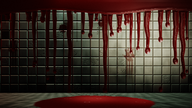
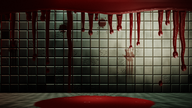
Halloween fase 14: escenas de imagen 20-25 con piano, Detail sin saltos y climax
20 galeria: cantidad de cuadros continua; piano hace gritar cada cuadro.
21 espejo: grietas del piano; vapor, mano que limpia y espejo roto.
22 se quema: ciclo fijo (D1 ya no salta la fase); llamaradas del piano;
   incendio que no des-quema la foto al terminar.
23 pelicula: rayones del piano; iris, cinta quemada y cartel.
24 sangra: grilla fija, D1 = cortes; chorros del piano; lampara apagada.
25 posesion: tiras continuas; tirones del piano; posesion total.
Miniaturas sin climax (HK_STILL) y regeneradas.

Claude-Session: https://claude.ai/code/session_01NVP2u1MWPb16oy8b6RCqty

diff --git a/td/tools/render_scenes.py b/td/tools/render_scenes.py
@@ -99,12 +99,12 @@ def media_image():
     return img[::-1].copy()
 
 
-def render(ctx, index, values, media):
+def render(ctx, index, values, media, defines=''):
     body, path = shader.read_body(index)
     n_inputs = config.scene_input_count(index)
     src = ('#version 330\nuniform sampler2D sTD2DInputs[{}];\n'
            'in vec3 vUV;\nvec4 TDOutputSwizzle(vec4 c) {{ return c; }}\n'
-           .format(n_inputs)
+           .format(n_inputs) + defines
            + shader.make_header(index, config.CTRL_CHANNELS)
            + body + shader._FOOTER)
     prog = ctx.program(vertex_shader=_VERT, fragment_shader=src)

diff --git a/td/tools/render_thumbs.py b/td/tools/render_thumbs.py
@@ -57,7 +57,8 @@ def main():
         if not shader.find_visual(i):
             continue
         try:
-            img, _ = rs.render(ctx, i, vals(i), media)
+            # HK_STILL: sin climax (la miniatura muestra la escena en reposo)
+            img, _ = rs.render(ctx, i, vals(i), media, '#define HK_STILL 1\n')
         except Exception as e:
             print('[!!] escena {:02d}: {}'.format(i, str(e)[:200]))
             fails += 1

diff --git a/docs/53_SETS_Y_HALLOWEEN.md b/docs/53_SETS_Y_HALLOWEEN.md
@@ -362,3 +362,16 @@ Mismo tratamiento que la fase 11: piano propio, Detail sin saltos y clímax en t
 
 - **Optimización del piano:** `keyEnv` y las demás funciones leen cada dato de la voz por separado y cortan apenas la voz no suena. Sin teclas, un bucle de 6 voces cuesta 6 lecturas, no 24. En el render por software, la 18 bajó de 0.30 s a 0.18 s y la 19 de 0.24 s a 0.17 s.
 
+## Fase 14: escenas de imagen 20–25
+
+| Escena | Piano | Detail sin saltos | Clímax |
+|---|---|---|---|
+| 20 Galería | El cuadro de esa posición grita (negativo un instante) y su lámpara se aviva | D1 continuo: los cuadros se reacomodan y el nuevo crece | Apagón y se tuercen de a uno → todos en negativo → vuelven parpadeando |
+| 21 Espejo | Estrella de grietas que crece mientras la tecla sigue apretada | — | Vapor total → una mano limpia → se raja entero |
+| 22 Se quema | Llamarada y chispas a la altura de la nota | D1 ya no cambia la duración de la vuelta (antes saltaba el frente o la foto): ciclo fijo de 22 s y D1 = velocidad del frente | Calor → incendio con llamaradas enormes → ráfaga que se lleva las cenizas. Para que no se "des-queme" al terminar, el clímax no adelanta la quemadura |
+| 23 Película | Rayón blanco en la posición de la nota y salto de cuadro | — | Saltos e iris que se cierra → la cinta se quema hasta el blanco → cartel y alguien del público se da vuelta |
+| 24 Sangra | Chorro de sangre que brota de la imagen | D1 = cortes en una grilla fija; los pedazos sin cortar quedan pegados como una hoja | La lámpara titila → la imagen llora a chorros → se apaga y la sangre brilla sola |
+| 25 Posesión | Tirón de la tira a la altura de la nota y ojos rojos | D1 continuo | Velas y ojos → venas hasta el centro y posesión total → todo queda rojo |
+
+- **Miniaturas:** `render_thumbs.py` define `HK_STILL` y `hkClimax` devuelve 0, así cada miniatura muestra la escena en reposo y no un clímax a medias.
+

diff --git a/CLAUDE.md b/CLAUDE.md
@@ -26,3 +26,4 @@ Trabajar en una rama; hacer **commit y push**. Desde el 21 de octubre de 2026: *
 - **Fase 11** (rama `claude/halloween-f11-detalle-piano`): piano polifónico (6 voces, `keyEnv`), Detail con Lag y `revealAt`, clímax en tres tiempos (`hkClimax`, `hkGrandClimax`) y setlist reordenado; escenas 00–06 rehechas (docs/53). Siguen las fases 12 (07–13), 13 (14–19), 14 (20–25) y 15 (pad momento y transiciones).
 - **Fase 12** (rama `claude/halloween-f12-escenas-07-13`, sobre f11): escenas 07–13 con el mismo tratamiento.
 - **Fase 13** (rama `claude/halloween-f13-escenas-14-19`, sobre f12): escenas 14–19, y piano optimizado (`keyEnv` corta si la voz no suena).
+- **Fase 14** (rama `claude/halloween-f14-escenas-20-25`, sobre f13): escenas de imagen 20–25; miniaturas sin clímax (`HK_STILL`).
